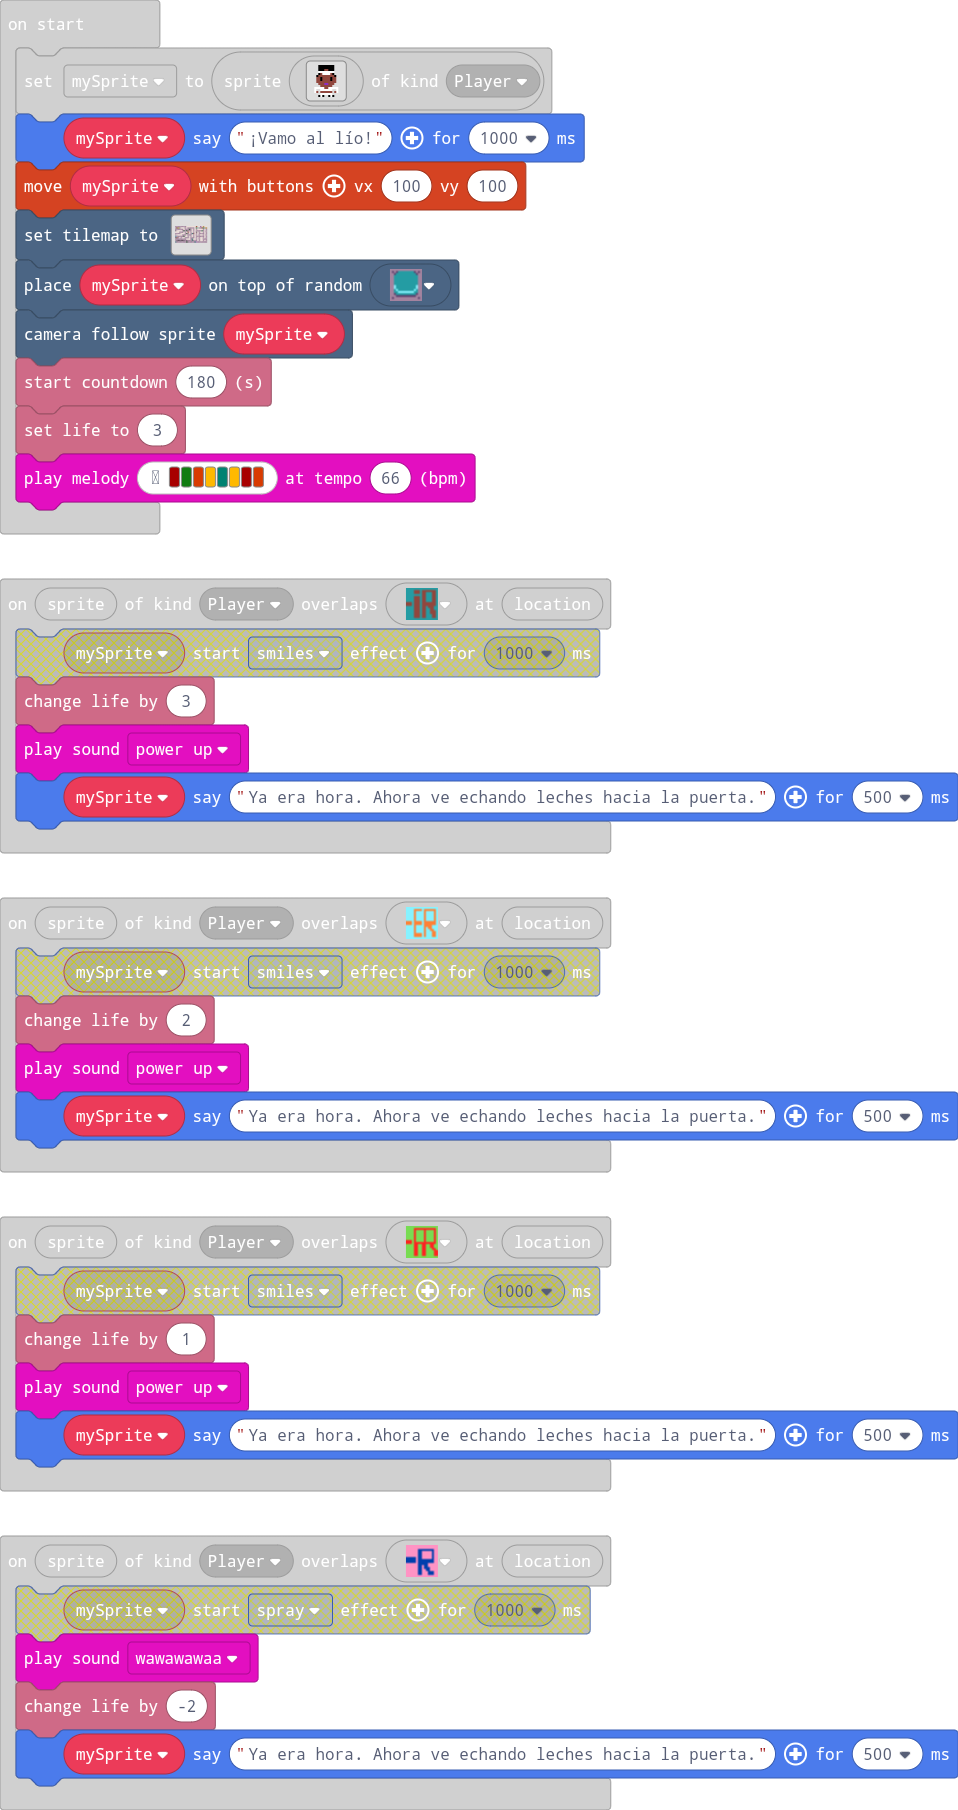
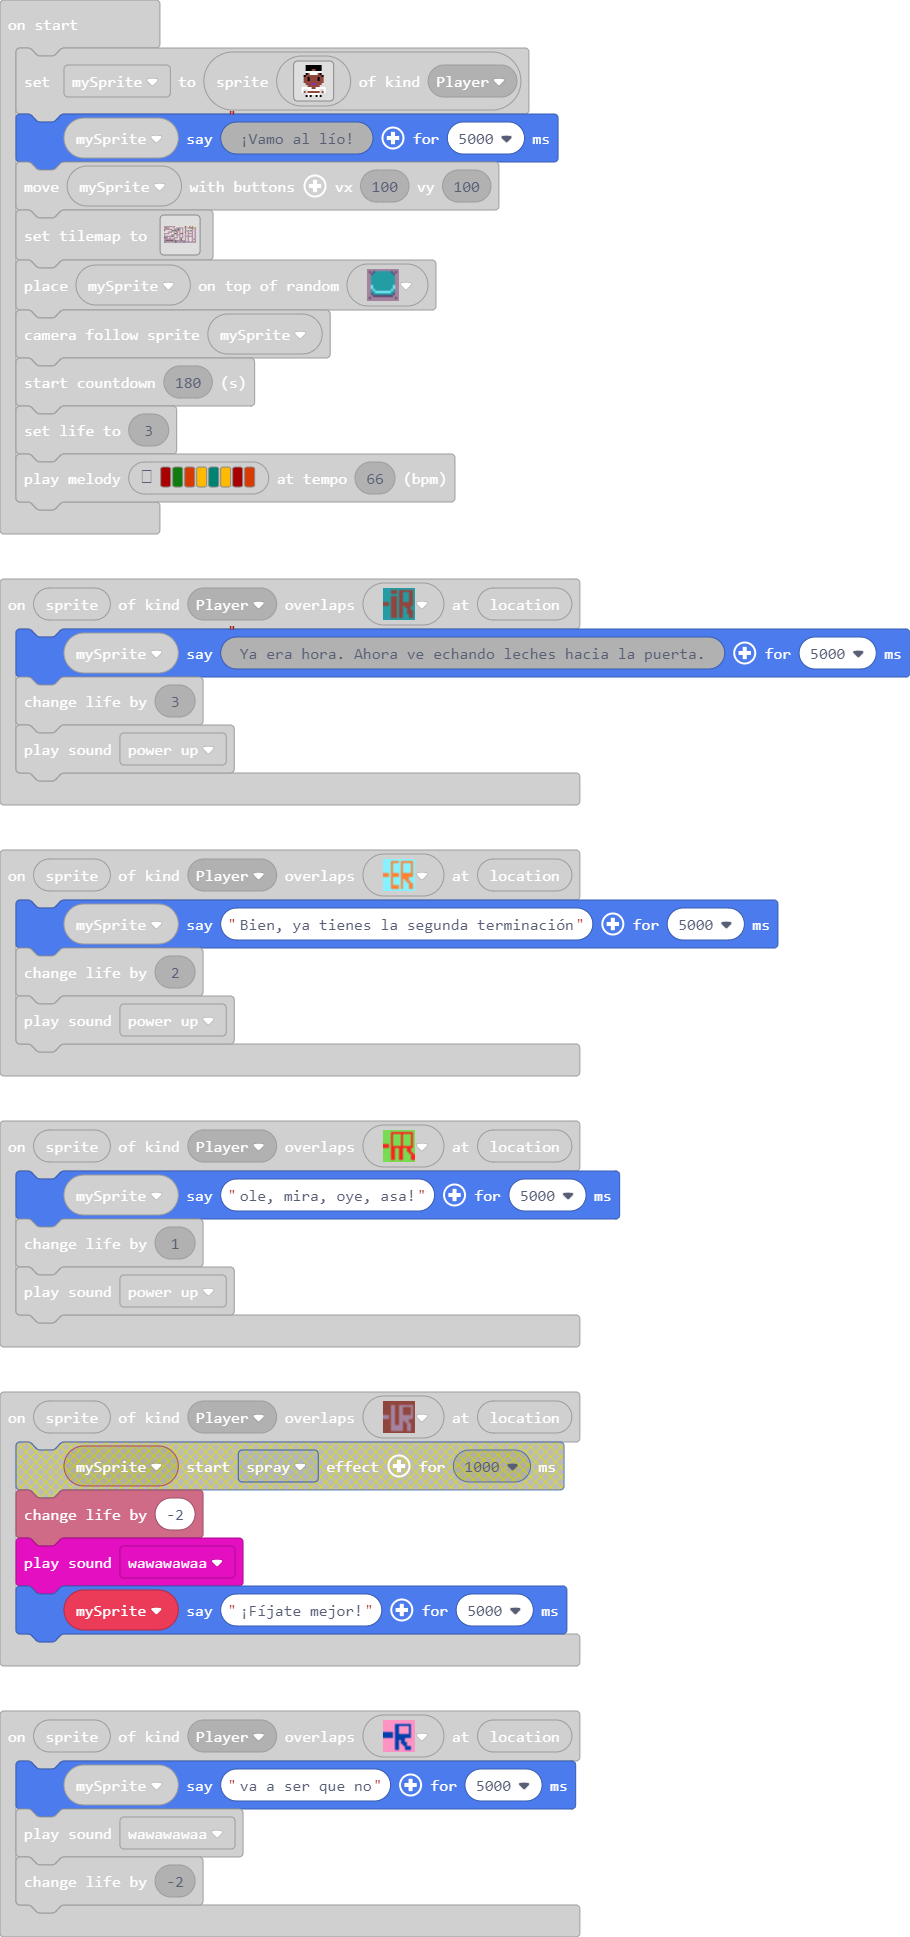
Update main.blocks, main.ts

diff --git a/main.ts b/main.ts
@@ -172,27 +172,27 @@ e e e e e e e e e e e e e e e e
 `
 }
 scene.onOverlapTile(SpriteKind.Player, myTiles.tile5, function (sprite, location) {
-    mySprite.say("Ya era hora. Ahora ve echando leches hacia la puerta.", 500)
+    mySprite.say("va a ser que no", 5000)
     music.wawawawaa.play()
     info.changeLifeBy(-2)
 })
 scene.onOverlapTile(SpriteKind.Player, myTiles.tile6, function (sprite, location) {
-    mySprite.say("Ya era hora. Ahora ve echando leches hacia la puerta.", 500)
+    mySprite.say("Bien, ya tienes la segunda terminación", 5000)
     info.changeLifeBy(2)
     music.powerUp.play()
 })
 scene.onOverlapTile(SpriteKind.Player, myTiles.tile4, function (sprite, location) {
-    mySprite.say("Ya era hora. Ahora ve echando leches hacia la puerta.", 500)
+    mySprite.say("ole, mira, oye, asa!", 5000)
     info.changeLifeBy(1)
     music.powerUp.play()
 })
 scene.onOverlapTile(SpriteKind.Player, myTiles.tile8, function (sprite, location) {
-    mySprite.startEffect(effects.spray, 1000)
+    mySprite.say("¡Fíjate mejor!", 5000)
     info.changeLifeBy(-2)
     music.wawawawaa.play()
 })
 scene.onOverlapTile(SpriteKind.Player, myTiles.tile7, function (sprite, location) {
-    mySprite.say("Ya era hora. Ahora ve echando leches hacia la puerta.", 500)
+    mySprite.say("Ya era hora. Ahora ve echando leches hacia la puerta.", 5000)
     info.changeLifeBy(3)
     music.powerUp.play()
 })
@@ -218,7 +218,7 @@ mySprite = sprites.create(img`
 . . . 1 1 1 1 1 1 . . . 
 . . f 1 f . . f 1 f . . 
 `, SpriteKind.Player)
-mySprite.say("¡Vamo al lío!", 1000)
+mySprite.say("¡Vamo al lío!", 5000)
 controller.moveSprite(mySprite, 100, 100)
 tiles.setTilemap(tiles.createTilemap(
[1 lines of base64/hex data omitted]
